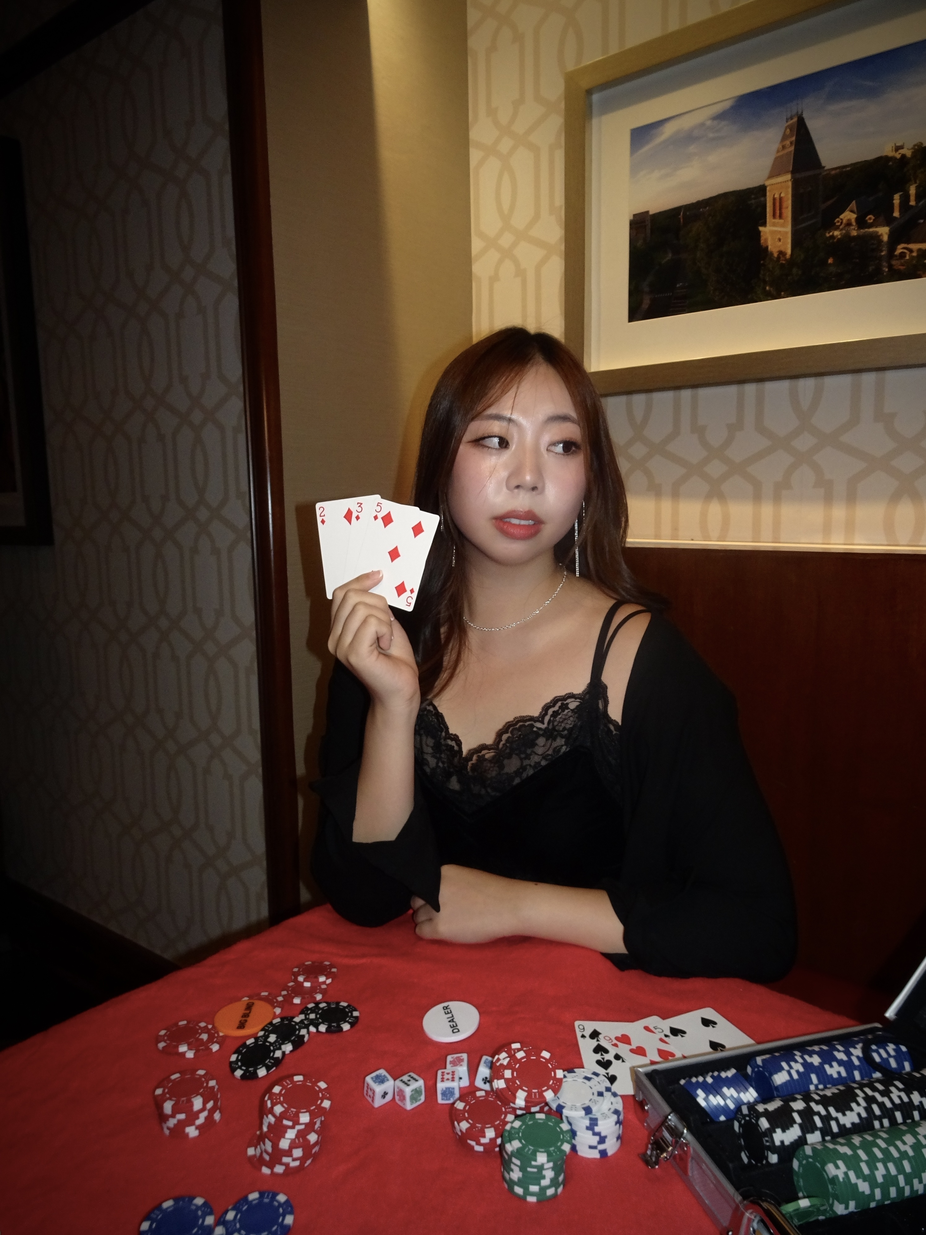
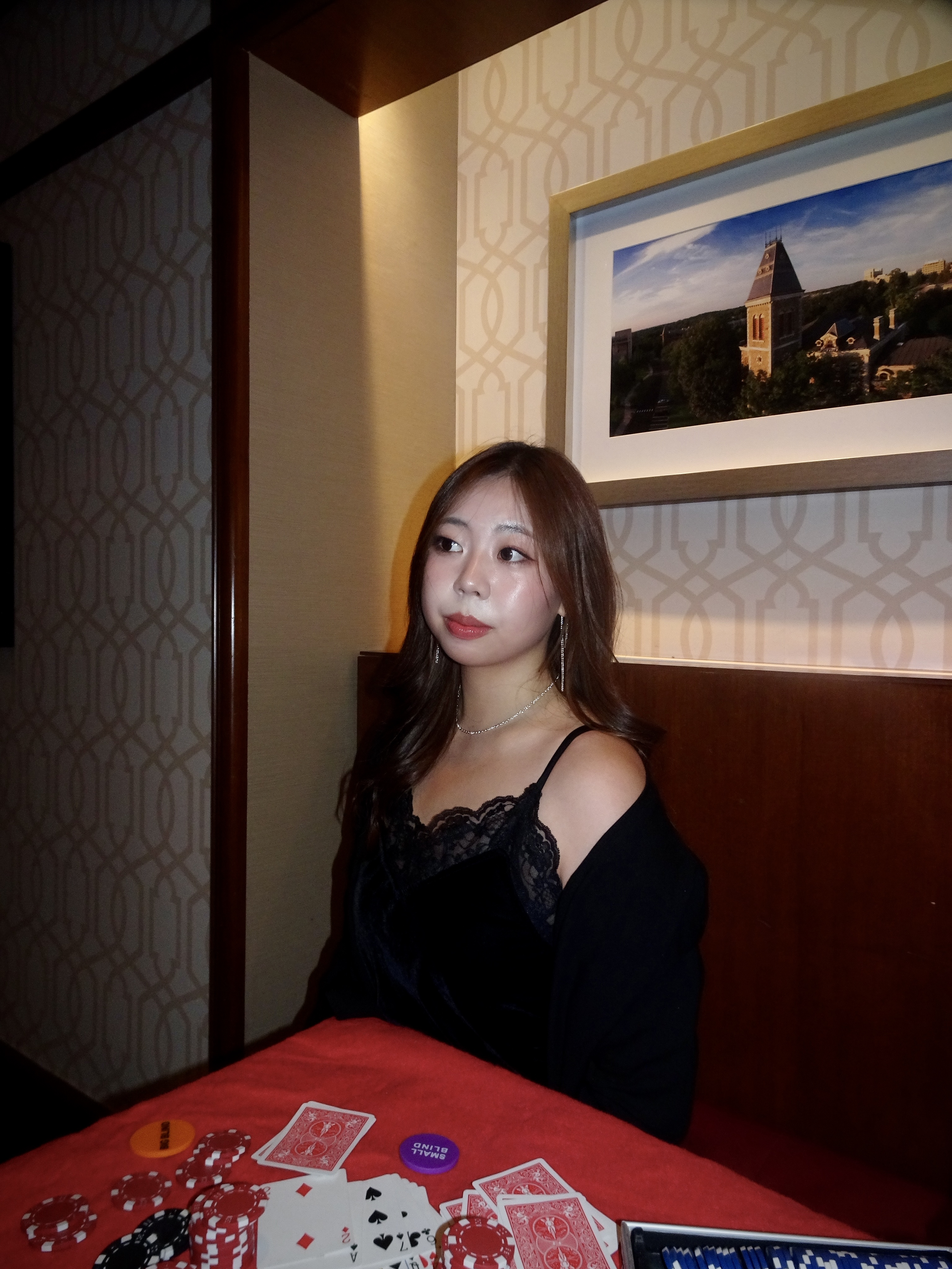
images

diff --git a/index.html b/index.html
@@ -129,9 +129,7 @@
         <!-- One -->
         <section id="one" class="tiles">
           <article>
-            <span class="image">
-              <img src="images/activeroster/FA26/New folder/fa26rush.jpeg" alt="" />
-            </span>
+            
             <header class="major">
               <!-- <h3><a href="rush" class="link">RUSH</a></h3> -->
               <h3><a href="rush" class="link">FA26 RUSH</a></h3>
@@ -139,18 +137,14 @@
             </header>
           </article>
           <article>
-            <span class="image">
-              <img src="images/activeroster/FA26/New folder/activeroster.jpeg" alt="" />
-            </span>
+           
             <header class="major">
               <h3><a href="actives" class="link">OUR ACTIVE SISTERS</a></h3>
               <p>meet the house</p>
             </header>
           </article>
           <article>
-            <span class="image">
-              <img src="images/activeroster/FA26/New folder/oursisters.jpeg" alt="" />
-            </span>
+           
             <header class="major">
               <!-- <h3><a href="landing" class="link">OUR SISTERS</a></h3> -->
               <h3><a href="roster" class="link">OUR SISTERS</a></h3>
